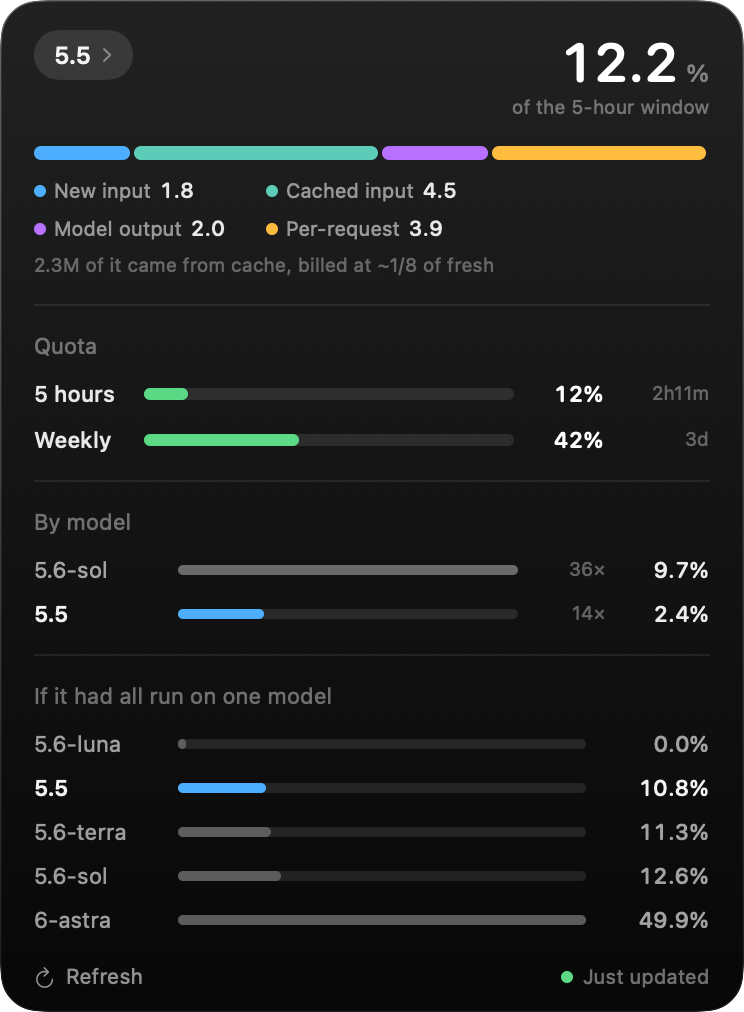
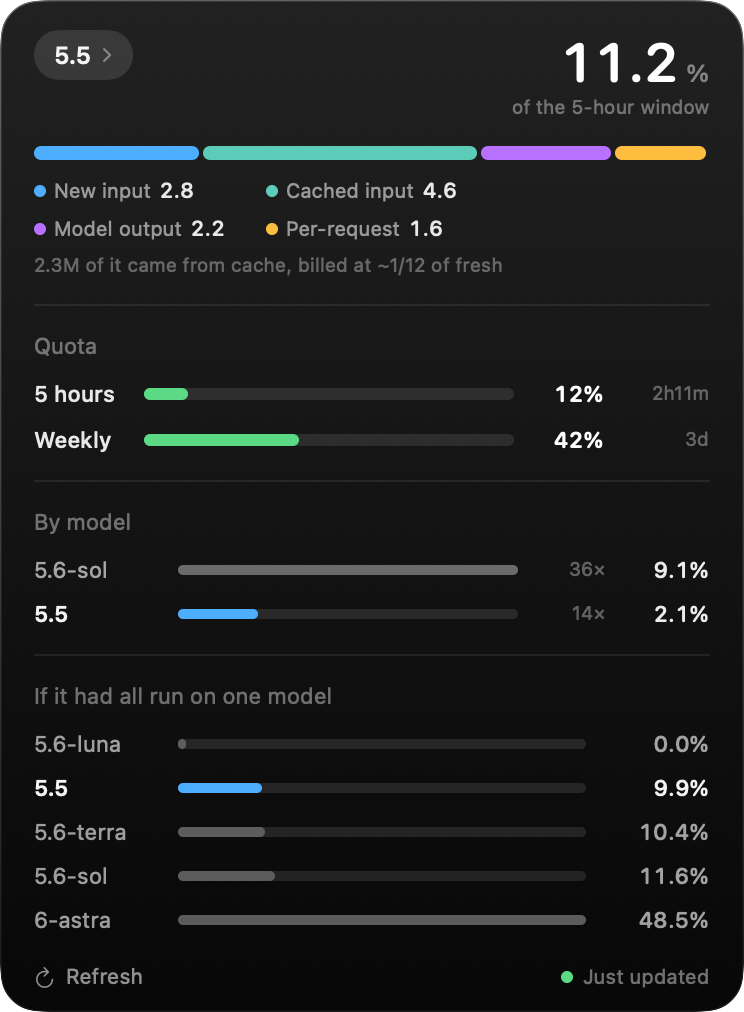
系数 v4：用全部 641 次测量重拟合，按读数滞后一次对齐
sol：fresh 66,457 → 42,500、缓存 508,494 → 492,537、输出 15,196 → 13,572、
每请求 0.0819% → 0.0328%。旧实验里 fresh 与请求数同涨同落，大半 fresh 成本
被记到了「每请求」上；req/* 成对比较直接解出每请求约 0，ctx/* 证实缓存成本
与上下文大小成正比。astra 缓存费率仍不可辨识，按 sol 的缓存/fresh 比例设定
（fresh 14,545、缓存 168,559、输出 2,364、每请求 0.2615%）；5.5 / terra 仍按
0.86× / 0.90× 由 sol 缩放。

不是处处更准：140 个回归点 RMS 1.060 → 0.839、11 段平均偏差 +0.61 → +0.31、
最大误差 +3.9 → −2.1；但分段 MAE 0.99 → 1.13，真实 148 次长会话预测
81.9% → 88.0%（实测 82%），ctx/200k 两版都算低。README 两份都照实写明。

- refit.design 改为滞后对齐；docstring 结论按新数据重写
- Budget.swift / codex_budget.py 系数与注释同步；README 系数表、测量结论、
  可信度、版本演进与验证表更新；截图与封面按新系数重渲染

diff --git a/Sources/Budget.swift b/Sources/Budget.swift
@@ -9,28 +9,29 @@ enum Budget {
 
     // MARK: 成本模型
     //
-    // 每个模型三个系数：新增输入、输出侧（output+reasoning）、每次请求固定成本。
-    // 不能用「单一乘数 × 基准公式」——astra 三个成分相对 sol 分别是
-    // 约 2.4× / 6× / 6×，用一个标量描述会在不同调用构成下明显漂移。
+    // 每个模型四个系数：新增输入、缓存输入、输出侧（output+reasoning）、每次请求固定成本。
+    // 不能用「单一乘数 × 基准公式」——astra 各成分相对 sol 分别约
+    // 2.9× / 5.7× / 8×，用一个标量描述会在不同调用构成下明显漂移。
     //
     // 系数来自受控实验（详见仓库 research/）：
-    //   sol   —— 全部 481 条试验联合非负拟合（research/refit.py），RMS 0.494
-    //   astra —— 纯 astra、未打满窗口的累积回归；输出侧用强制长输出的一组单独定
+    //   sol   —— 全部 641 次测量联合非负拟合（research/refit.py），140 个回归点 RMS 0.84
+    //   astra —— 纯 astra、未打满窗口的回归；缓存费率测不出来，按 sol 的缓存/fresh 比例设定
     //   5.5 / terra —— 只测到整体乘数（±0.11），按比例缩放
     //   luna  —— 30 次调用零消耗
-    // 缓存输入不是免费的，但也不是早先写的「便宜 16 倍」—— 约 7.7 倍。
+    // 缓存输入约比 fresh 便宜 12 倍。
     //
-    // 系数经历了三版：
+    // 系数经历了四版：
     //   ① 「缓存免费」：分析 bug，续会话记累计 token 却被当增量求和，缓存虚增约 7 倍
-    //   ② 677,444：拿 cache/bigctx 单组做残差，其余系数沿用旧值 —— 但那些旧值是在
-    //      缓存按零时拟合的，「每请求成本」里本来就吸收了一部分缓存成本，于是重复计费，
-    //      整体单边高估（24 组平均偏差 +0.85%）
-    //   ③ 现在这版：对全部 481 条试验做联合非负最小二乘（research/refit.py）。sol 的
-    //      RMS 从 1.458 降到 0.494（1% 量化噪声下限 0.289）；24 组验证 MAE 0.66、
-    //      平均偏差 +0.32%；真实 148 次长会话预测 81.9%，实测 82%。
+    //   ② 677,444：拿 cache/bigctx 单组做残差，其余系数沿用缓存按零时拟合的旧值，重复计费
+    //   ③ 481 条联合拟合：fresh 66,457、每请求 0.0819%。旧实验每次请求都顺带几千到两万
+    //      fresh，两者同涨同落拆不开，大半 fresh 成本被记到了「每请求」上
+    //   ④ 现在这版：补上 req/*（缓存总量相同、请求数差 4 倍）和 ctx/*（请求数固定、只扫
+    //      上下文规模）后重拟合，按「读数滞后一次」对齐。req 成对比较直接解出每请求约 0，
+    //      ctx 四组落在一条直线上 —— 缓存成本与上下文大小成正比。
     //
-    // 仍不确定：sol 的 fresh 与「每请求」此消彼长，待 req/* 实验拆开；
-    // astra 的缓存费率数据定不了（剖面完全平），暂沿用外推值 252,190。
+    // 仍未对上：真实 148 次长会话预测 88%，实测 82%（③ 是 81.9%）。分段验证 MAE 1.13
+    // （③ 0.99），但平均偏差 +0.31（③ +0.61）、最大误差 −2.1（③ +3.9）。
+    // astra 的缓存费率要等 astra/bigctx 实验。
     struct Coef {
         let fresh: Double?      // 每 1% 额度能买多少 fresh 输入 token；nil = 不计费
         let cached: Double?     // 每 1% 能买多少缓存输入 token
@@ -40,13 +41,13 @@ enum Budget {
 
     // 5.5 / terra 与 sol 在现有分辨率下分不出来，按 0.86× / 0.90× 由 sol 缩放。
     static let coef: [String: Coef] = [
-        "gpt-5.6-sol":   Coef(fresh: 66_457, cached: 508_494, output: 15_196, request: 0.0819),
-        "gpt-5.5":       Coef(fresh: 77_276, cached: 591_272, output: 17_670, request: 0.0704),
-        "gpt-5.6-terra": Coef(fresh: 73_841, cached: 564_993, output: 16_884, request: 0.0737),
+        "gpt-5.6-sol":   Coef(fresh: 42_500, cached: 492_537, output: 13_572, request: 0.0328),
+        "gpt-5.5":       Coef(fresh: 49_419, cached: 572_717, output: 15_782, request: 0.0282),
+        "gpt-5.6-terra": Coef(fresh: 47_223, cached: 547_263, output: 15_080, request: 0.0295),
         "gpt-5.6-luna":  Coef(fresh: nil,    cached: nil,     output: nil,    request: 0.0),
-        "gpt-6-astra":   Coef(fresh: 27_567, cached: 252_190, output:  2_566, request: 0.4814),
+        "gpt-6-astra":   Coef(fresh: 14_545, cached: 168_559, output:  2_364, request: 0.2615),
     ]
-    static let fallback = Coef(fresh: 66_457, cached: 508_494, output: 15_196, request: 0.0819)
+    static let fallback = Coef(fresh: 42_500, cached: 492_537, output: 13_572, request: 0.0328)
     /// 缓存比 fresh 便宜几倍（界面文案用，由系数算出，不写死）
     static var cacheDiscount: Int {
         Int(((fallback.cached ?? 0) / (fallback.fresh ?? 1)).rounded())

diff --git a/Sources/Render.swift b/Sources/Render.swift
@@ -38,7 +38,7 @@ enum Renderer {
                         .lineSpacing(6)
                         .padding(.top, 18)
                     VStack(alignment: .leading, spacing: 11) {
-                        bullet("481 controlled trials behind the cost model",
+                        bullet("641 controlled trials behind the cost model",
                                Color(red: 0.30, green: 0.68, blue: 1.00))
                         bullet("Native Swift · no dependencies",
                                Color(red: 0.72, green: 0.44, blue: 1.00))

diff --git a/research/refit.py b/research/refit.py
@@ -4,25 +4,23 @@
 quota_probe.py 负责**采集**，这个脚本负责**核对**：把已有的实验数据重算一遍，
 回答「仓库里现在这套系数，跟自己的数据对得上吗」。
 
-跑出来的结论（481 条记录，含 cache/bigctx）：
+跑出来的结论（654 条记录、641 次测量，含 req/* 与 ctx/*）：
 
-  1. 旧系数对不上，而且是单边高估：sol 上 RMS 1.458，联合重拟合 0.494（1% 量化
-     噪声下限 0.289）。原因是缓存项是后加的、其余系数没重拟合 —— 「每请求成本」
-     和缓存共线，旧的 0.0667 里本来就吸收了一部分缓存成本，再加一项等于重复计费。
+  1. 旧数据里「每请求固定成本」被高估了约 2.5 倍。那批实验每次请求都顺带几千到两万
+     fresh，两者同涨同落。req/*（缓存总量相同、请求数差 4 倍）直接解出每请求约 0
+     （−0.012% ± 0.042），联合拟合给 0.033%；fresh 相应从 66,457 变为 42,500 tok/1%。
 
-  2. 缓存费率在完整数据里**测得动**：去掉这一项 RMS 从 0.494 升到 3.107，剖面最优
-     在 50 万附近（677,444 时已升到 0.911）。只看不含 bigctx 的 421 条会得出
-     「不可辨识」—— 那批实验全在每次约 1.6 万缓存的小区间里。
+  2. 缓存成本与上下文大小成正比：ctx/* 固定 20 次请求、上下文 2 万~20 万，四组都落在
+     量化误差内的一条直线上。缓存测得动（去掉这一项 RMS 0.84 → 3.18）。
 
-  3. 同理，只用 421 条拟合去预测真实长会话会高估到 128%，像是线性形式不成立；补上
-     bigctx 后是 79.5%，实测 82%。矛盾来自数据缺区间，不是形式错了。
+  3. 读数滞后一次：第 k 次请求带回的读数只含前 k−1 次的费用。按滞后对齐，
+     sol / astra 的 RMS 都更低。
 
-  4. astra 的缓存费率在现有数据里确实不可辨识（剖面 0.547~0.548 完全平），需要一组
-     astra 的大上下文实验。
+  4. 仍未对上：真实 148 次长会话预测 88%，实测 82%（上一版 81.9%）；ctx/200k 两版都
+     算低。单看 ctx/* 缓存约 35 万 tok/1%，单看 09-10 的 cache/bigctx 约 50 万。
 
-  仍未拆干净的是 sol 的 fresh 与「每请求」—— 剖面上两者此消彼长。quota_probe.py 里的
-  req/* 让缓存总量相等而请求数差 4 倍，正是为此设计；ctx/* 固定请求数扫上下文规模，
-  直接检验缓存是否线性。
+  5. astra 的缓存费率仍不可辨识（剖面完全平），暂按 sol 的缓存/fresh 比例设定；
+     astra/bigctx 这组就是为它准备的，尚未运行。
 
 用法：
     python3 refit.py              # 全部核对
@@ -39,10 +37,10 @@ WIN_5H = "300"
 
 # 仓库当前在用的系数（Sources/Budget.swift / cli/codex_budget.py）
 SHIPPED = {
-    "gpt-5.6-sol":   (66_457, 508_494, 15_196, 0.0819),
-    "gpt-5.5":       (77_276, 591_272, 17_670, 0.0704),
-    "gpt-5.6-terra": (73_841, 564_993, 16_884, 0.0737),
-    "gpt-6-astra":   (27_567, 252_190,  2_566, 0.4814),
+    "gpt-5.6-sol":   (42_500, 492_537, 13_572, 0.0328),
+    "gpt-5.5":       (49_419, 572_717, 15_782, 0.0282),
+    "gpt-5.6-terra": (47_223, 547_263, 15_080, 0.0295),
+    "gpt-6-astra":   (14_545, 168_559,  2_364, 0.2615),
     "gpt-5.6-luna":  None,
 }
 # used_percent 只有 1% 分辨率。均匀量化误差的标准差是 1/sqrt(12)，
@@ -153,10 +151,13 @@ def design(inc, model, every=3, warm=6):
         cf = cc = co = 0
         p0 = run[0]["p"]
         for k, x in enumerate(run, 1):
-            cf += x["f"]; cc += x["c"]; co += x["o"]
+            # 读数滞后一次：第 k 次请求带回来的读数只包含前 k−1 次的费用
+            # （第一次请求时常读到 0，下一次才跳上去）。按滞后对齐，sol 与 astra
+            # 的 RMS 都更低（0.494→0.480、0.547→0.441），反过来对齐则最差。
             if k >= warm and k % every == 0:
-                A.append([cf, cc, co, k])
+                A.append([cf, cc, co, k - 1])
                 y.append(x["p"] - p0)
+            cf += x["f"]; cc += x["c"]; co += x["o"]
     return A, y
 
 
@@ -442,7 +443,7 @@ def section_ctx(inc, model="gpt-5.6-sol"):
     线性的话，扣掉 fresh 和输出之后的「每次请求成本」应当是一条直线：
         每请求% = 平均上下文 / C + R
     四组各自反推出的 C（每 1% 能买的缓存 token）应当一致。fresh 费率本身还有
-    争议（v3 的 66K 与新拟合的约 38K），两种都算，看结论是否依赖它。
+    争议（v3 的 66,457 与现行的 42,500），两种都算，看结论是否依赖它。
     与 req/* 一样按读数滞后一次对齐：第 1..n 次的读数差对应前 n−1 次的 token。
     """
     print("\n【6】ctx/*：缓存成本是否与上下文大小成正比")
@@ -465,10 +466,10 @@ def section_ctx(inc, model="gpt-5.6-sol"):
         print("    还没有数据")
         return
     print(f"    {'组':<10}{'请求':>4}{'平均上下文':>11}{'fresh':>9}{'实测Δ':>6}"
-          f"   C（fresh 按 38K）   C（fresh 按 {SHIPPED[model][0]:,}）")
+          f"   C（fresh 按 {SHIPPED[model][0]:,}）   C（fresh 按 v3 的 66,457）")
     for cell, n, ctx, f, o, dp in pts:
         cs = []
-        for fr in (38_000, SHIPPED[model][0]):
+        for fr in (SHIPPED[model][0], 66_457):
             y = (dp - f / fr - o / O) / n
             cs.append(f"{ctx / y:>12,.0f}" if y > 0 else f"{'—':>12}")
         print(f"    {cell:<10}{n:>4}{ctx:>11,.0f}{f:>9,}{dp:>6.0f}      {cs[0]}        {cs[1]}")
@@ -478,14 +479,15 @@ def section_ctx(inc, model="gpt-5.6-sol"):
     # 按请求数加权的直线拟合：每请求% = a × 平均上下文 + b
     ws = [n for _, n, *_ in pts]
     xs_ = [ctx for _, _, ctx, *_ in pts]
-    ys_ = [(dp - f / 38_000 - o / O) / n for _, n, _, f, o, dp in pts]
+    F = SHIPPED[model][0]
+    ys_ = [(dp - f / F - o / O) / n for _, n, _, f, o, dp in pts]
     W = sum(ws)
     mx = sum(w * x for w, x in zip(ws, xs_)) / W
     my = sum(w * y for w, y in zip(ws, ys_)) / W
     sxx = sum(w * (x - mx) ** 2 for w, x in zip(ws, xs_))
     a = sum(w * (x - mx) * (y - my) for w, x, y in zip(ws, xs_, ys_)) / sxx
     b = my - a * mx
-    print(f"\n    直线拟合（fresh 按 38K）：每 1% ≈ {1 / a:,.0f} 缓存 token，每请求固定 {b:+.3f}%")
+    print(f"\n    直线拟合（fresh 按 {F:,}）：每 1% ≈ {1 / a:,.0f} 缓存 token，每请求固定 {b:+.3f}%")
     worst = 0.0
     for (cell, n, ctx, *_), y in zip(pts, ys_):
         r = y - (a * ctx + b)

diff --git a/cli/codex_budget.py b/cli/codex_budget.py
@@ -5,12 +5,12 @@
   · 这笔花费是怎么构成的（新输入 / 输出 / 每请求底价）
   · 同样这些活，换成别的模型要花多少 —— 反事实计算
 
-成本模型来自受控实验（481 次调用、26 组，research/refit.py 联合拟合）：
+成本模型来自受控实验（641 次测量、32 组，research/refit.py 联合拟合）：
 
     Δ5h% = fresh_input/F + cached_input/C + 输出侧/O + R × 请求数
 
 每个模型一组 (F, C, O, R)；「输出侧」= output + reasoning。缓存输入不是
-免费的，只是便宜：sol 上约为 fresh 的 1/8。
+免费的，只是便宜：sol 上约为 fresh 的 1/12。
 
 零依赖，标准库，Python 3.8+。只读本地日志，不上传任何数据。
 """
@@ -27,23 +27,23 @@ WIN_5H, WIN_WEEK = 300, 10080
 
 # ── 成本模型 ─────────────────────────────────────────────────────────────
 # 为什么每个模型各一组系数、而不是「一个乘数乘以基准公式」：astra 各成分相对
-# sol 的倍数差了一个数量级（fresh ~2.4×、输出 ~6×、每请求 ~6×），单一乘数下
+# sol 的倍数差了一个数量级（fresh ~2.9×、输出 ~5.7×、每请求 ~8×），单一乘数下
 # 等效倍数完全取决于调用的构成，怎么都对不上。
 
 # (每 1% 的 fresh token 数, 每 1% 的缓存输入 token 数,
 #  每 1% 的输出侧 token 数, 每次请求成本%)
 #
-# 与 Sources/Budget.swift 保持一致，来龙去脉见那边的注释。简言之：对全部 481 条
-# 试验做联合非负最小二乘（research/refit.py），sol 的 RMS 从 1.458 降到 0.494。
-# 之前的 677,444 是单组残差、且叠在缓存按零时拟合的旧系数上，重复计费了。
-# 5.5 / terra 与 sol 分不出来，按 0.86× / 0.90× 缩放；astra 的缓存费率不可辨识，
-# 暂沿用外推值。
+# 与 Sources/Budget.swift 保持一致，来龙去脉见那边的注释。简言之：对全部 641 次
+# 测量做联合非负最小二乘（research/refit.py，读数滞后一次对齐），sol 140 个回归点
+# RMS 0.84。req/* 与 ctx/* 把 fresh 和「每请求」拆开了：旧版 0.0819% 里大半其实是
+# fresh 成本。5.5 / terra 与 sol 分不出来，按 0.86× / 0.90× 缩放；astra 的缓存费率
+# 不可辨识，按 sol 的缓存/fresh 比例设定。
 COEF = {
-    "gpt-5.6-sol":   (66_457, 508_494, 15_196, 0.0819),
-    "gpt-5.5":       (77_276, 591_272, 17_670, 0.0704),   # 由 0.86× 缩放
-    "gpt-5.6-terra": (73_841, 564_993, 16_884, 0.0737),   # 由 0.90× 缩放
+    "gpt-5.6-sol":   (42_500, 492_537, 13_572, 0.0328),
+    "gpt-5.5":       (49_419, 572_717, 15_782, 0.0282),   # 由 0.86× 缩放
+    "gpt-5.6-terra": (47_223, 547_263, 15_080, 0.0295),   # 由 0.90× 缩放
     "gpt-5.6-luna":  (None,   None,    None,   0.0),      # 不计费
-    "gpt-6-astra":   (27_567, 252_190,  2_566, 0.4814),   # 缓存列为外推值
+    "gpt-6-astra":   (14_545, 168_559,  2_364, 0.2615),   # 缓存列按 sol 比例设定
 }
 DEFAULT_COEF = COEF["gpt-5.6-sol"]
 UNCERTAIN = {"gpt-6-astra", "gpt-5.6-luna", "gpt-5.5", "gpt-5.6-terra"}

diff --git a/README.md b/README.md
@@ -23,8 +23,8 @@ two questions that actually change what you do next:
 - **What is that spend made of** — new input, output, or the per-request floor?
 - **What would the same work have cost on a different model?**
 
-The second one needs a cost model. Getting one took **481 controlled API calls
-across 26 experiment cells**, changing one variable at a time. The raw trials and
+The second one needs a cost model. Getting one took **641 controlled API calls
+across 32 experiment cells**, changing one variable at a time. The raw trials and
 the harness are in [`research/`](research/).
 
 ## Install
@@ -52,16 +52,22 @@ package manager, no account, no API key.
 
 ## What the measurements showed
 
-**Cached input is cheap, not free — roughly 8× cheaper than fresh.** One percent
-of the five-hour window buys ~66K fresh input tokens or ~510K cached ones. That
-gap is why long sessions still add up: one real session carrying ~150K of
-context across 148 turns spent about half of its quota on cached input alone.
-*Still don't clear context to save quota* — rebuilding it costs full fresh
-price, about 8× worse. But a very long session is not free either.
+**Cached input is cheap, not free — roughly 12× cheaper than fresh.** One percent
+of the five-hour window buys ~42K fresh input tokens or ~490K cached ones, and the
+cached cost grows in straight proportion to context size (20 requests each at
+20K, 60K, 120K and 200K of context all land on one line). That is why long
+sessions still add up: one real session carrying ~150K of context across 148
+turns spent about half of its quota on cached input alone. *Still don't clear
+context to save quota* — rebuilding it costs full fresh price, about 12× worse.
+But a very long session is not free either.
 
-**Every request has a floor.** ~0.08% on Sol regardless of size, so roughly a
-dozen requests consume 1% of the five-hour window even when almost nothing comes
-back. Redundant tool loops are expensive even when they're tiny.
+**The per-request floor is small — what you pay for is what each request
+carries.** ~0.03% on Sol, so about 30 near-empty requests make 1% of the
+five-hour window. An earlier version of this README said 0.08%: older
+experiments sent thousands of fresh tokens with every request, so the two could
+not be told apart. Two cells built to separate them — same cached total, 4×
+different request counts — put the floor near zero. A tool loop is cheap if it
+re-sends little; it is expensive when every turn drags a large context along.
 
 **Effort is not charged at a premium — on Sol.** Higher effort costs more only
 because it emits more reasoning tokens; across five levels the multiplier stayed
@@ -69,8 +75,9 @@ at 1.0 ± 0.1. In practice Sol at max effort still undercuts Astra at low effort
 so **turn the effort dial up before reaching for a bigger model.**
 
 **Astra needs more than one number.** Relative to Sol its fresh input costs
-~2.4×, while its output and per-request floor cost ~6×, so any single "Astra is
-N×" figure shifts with how much the model talks. Short, decisive Astra work is
+~2.9× and its output ~5.7× (its per-request floor looks like ~8×, but that
+figure leans on an assumed cached rate), so any single "Astra is N×" figure
+shifts with how much the model talks. Short, decisive Astra work is
 affordable; long reasoning chains on it are not.
 
 ## Measured coefficients
@@ -79,16 +86,18 @@ Each model gets four coefficients instead of one multiplier:
 
 | Model | New input per 1% | Cached input per 1% | Output + reasoning per 1% | Per request |
 |---|---:|---:|---:|---:|
-| `gpt-5.6-sol` | 66,457 tok | 508,494 tok | 15,196 tok | 0.0819% |
-| `gpt-5.5` | 77,276 tok | 591,272 tok | 17,670 tok | 0.0704% |
-| `gpt-5.6-terra` | 73,841 tok | 564,993 tok | 16,884 tok | 0.0737% |
+| `gpt-5.6-sol` | 42,500 tok | 492,537 tok | 13,572 tok | 0.0328% |
+| `gpt-5.5` | 49,419 tok | 572,717 tok | 15,782 tok | 0.0282% |
+| `gpt-5.6-terra` | 47,223 tok | 547,263 tok | 15,080 tok | 0.0295% |
 | `gpt-5.6-luna` | free | free | free | free |
-| `gpt-6-astra` | 27,567 tok | 252,190 tok\* | 2,566 tok | 0.4814% |
+| `gpt-6-astra` | 14,545 tok | 168,559 tok\* | 2,364 tok | 0.2615%\* |
 
-Sol's four are fitted jointly on all 481 trials with non-negative least squares
-([`research/refit.py`](research/refit.py)). 5.5 and Terra are indistinguishable
-from Sol at this resolution and are scaled from it. \*Astra's cached rate cannot
-be identified from the current data and is held at an extrapolated value.
+Sol's four are fitted jointly on all 641 measured calls with non-negative least
+squares ([`research/refit.py`](research/refit.py)). 5.5 and Terra are
+indistinguishable from Sol at this resolution and are scaled from it. \*Astra's
+cached rate cannot be identified from the current data; it is set at Sol's
+cached-to-fresh ratio, and Astra's per-request figure moves with that choice. A
+dedicated `astra/bigctx` cell is defined but not yet run.
 
 <details>
 <summary><b>How this was measured, and where it's shaky</b></summary>
@@ -99,9 +108,10 @@ These numbers are only worth something if you know their error bars.
 
 **Reliability, by model**
 
-- **Sol is solid** — a joint fit over 94 regression points, RMS 0.49 against a
-  0.29 rounding floor, leave-one-out 0.53. Its fresh-vs-per-request split still
-  trades off; a dedicated experiment (`req/*`) is queued to pin it.
+- **Sol is the best-measured model, but not settled** — a joint fit over 140
+  regression points, RMS 0.84 against a 0.29 rounding floor, leave-one-out 0.87.
+  The fit error sits well above the floor, and one real 148-request session is
+  over-predicted (88% vs. 82%). The table below shows where each version lands.
 - **5.5 and Terra are indistinguishable from Sol** at this resolution. Their
   error bars overlap; treat all three as ≈1×.
 - **Astra and Luna rest on ~30–40 calls each.** Read them as order-of-magnitude.
@@ -119,7 +129,7 @@ These numbers are only worth something if you know their error bars.
   keep flowing, so Δ is truncated.
 - **Concurrency contaminates attribution.** Don't use Codex while measuring.
 
-**Two things about the quota system itself**
+**Three things about the quota system itself**
 
 - **Readings are event-driven.** The logs record a value only when Codex makes a
   request, so "current usage" is always as of the last request. After a window
@@ -129,8 +139,11 @@ These numbers are only worth something if you know their error bars.
 - **The 5-hour limit is a rolling window, not a fixed one.** Usage going from 84%
   to 0% in 43 minutes appears in the data; a fixed window cannot do that, a
   rolling one can when a burst ages out together.
+- **A reading lags one request.** The quota value returned with a request does
+  not yet include that request's own cost; the next one does. Aligning the fit
+  that way lowers its error for both Sol and Astra.
 
-**How the cached rate was pinned down — three versions**
+**How the coefficients got here — four versions**
 
 1. **"Cached input is free."** Wrong, and wrong in the analysis rather than the
    data: resumed-session cells record *cumulative* token counts, and the analysis
@@ -142,13 +155,31 @@ These numbers are only worth something if you know their error bars.
    a cached term on top double-counted it: every cell came out over-estimated,
    by +0.85% on average.
 3. **508,494 tok/1%**, from refitting all four coefficients jointly on all 481
-   trials. Across 24 cells: MAE 0.87% → 0.66%, mean bias +0.85% → +0.32%.
+   trials. Across 24 cells: MAE 0.87% → 0.66%, mean bias +0.85% → +0.32%. But
+   its per-request floor (0.0819%) was inflated: in those trials fresh input and
+   request count rose together, so the fit could trade one for the other.
+4. **Current.** Two new cell families broke that tie. `req/many` and `req/few`
+   hold the cached total equal while request counts differ 4×; the difference
+   alone solves the floor at −0.012% ± 0.042%. `ctx/*` fix 20 requests and sweep
+   context from 20K to 200K; all four sit within rounding of one straight line.
+   Refitting everything, aligned to the one-request lag in quota readings, gives
+   the table above.
 
-|  | v2 | v3 (current) | observed |
+|  | v3 | v4 (current) | observed |
 |---|---:|---:|---:|
-| `cache/warm` cell | 1.4% | 1.6% | 1% |
-| `cache/bigctx` cell | 24.0% | 25.2% | 24% |
-| a real 148-request session | 80.7% | 81.9% | 82% |
+| `req/many` — 63 small requests | 12.7% | 10.6% | 9% |
+| `req/few` — 15 large requests | 7.2% | 6.7% | 8% |
+| `ctx/20k` | 2.5% | 1.7% | 1% |
+| `ctx/200k` | 9.1% | 8.5% | 11% |
+| `cache/bigctx` | 24.7% | 25.4% | 24% |
+| a real 148-request session | 81.9% | 88.0% | 82% |
+
+Neither version wins everywhere. v4 fixes the cells designed to separate the
+floor from fresh input and halves the mean bias (+0.61 → +0.31 across 11
+segments), but its segment MAE is slightly worse (0.99 → 1.13) and it misses the
+real session by 6 points. Large contexts are under-predicted by both —
+`ctx/200k` suggests cached input may cost more than the joint fit says, which the
+older `cache/bigctx` cell does not show. That is the open question.
 
 Version 3 came out of a second, independent pass over the data
 ([#1](https://github.com/kongleiwork-art/codex-cost/pull/1)). That pass ran on the
@@ -190,7 +221,7 @@ uploaded. The panel shows aggregate numbers only — no prompts, no file content
 Sources/     the app — Swift, no dependencies
 cli/         the same cost model as a terminal tool
 tests/       fixture logs + regression tests for the app and the CLI
-research/    the experiment harness and all 481 raw trials
+research/    the experiment harness and every raw trial
 docs/        screenshots, regenerated from fixtures by docs/render.sh
 ```
 
